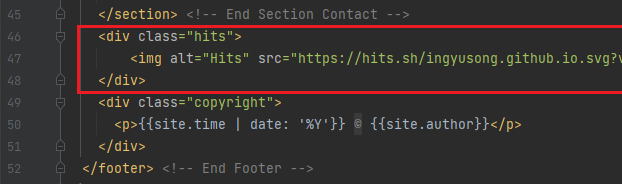
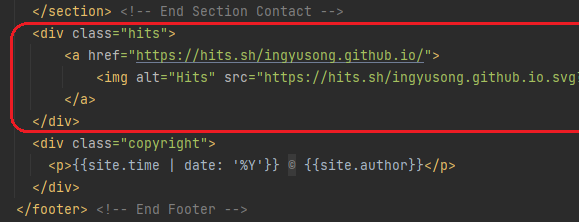
Fixed: 2023-06-08-Git-Blog-방문자수-조회수-기능-추가하기.markdown, _post-page.scss
게시물 조회수 설정하기 글 추가
게시글 헤더 left 정렬

diff --git a/_layouts/post.html b/_layouts/post.html
@@ -17,10 +17,10 @@ layout: main
     <div class="wrap-content">
       <header class="header-page">
         <h1 class="page-title">{{page.title}}</h1>
-        <div class="page-date"><span>{{page.date | date: '%Y, %b %d'}}&nbsp;&nbsp;&nbsp;&nbsp;</span></div>
-        <div class="hits">
-          <img alt="Hits" src="https://hits.sh/ingyusong.github.io/{{ page.title }}.svg?style=plastic&label=%EC%A1%B0%ED%9A%8C%EC%88%98&color=4a8fd4&labelColor=787879"/>
-        </div>
+        <div class="page-date"><span>{{page.date | date: '%Y, %m %d'}}&nbsp;&nbsp;&nbsp;&nbsp;</span></div>
+          <a href="https://hits.sh/ingyusong.github.io/{{ page.title }}">
+            <img alt="Hits" src="https://hits.sh/ingyusong.github.io/{{ page.title }}.svg?style=plastic&label=%EC%A1%B0%ED%9A%8C%EC%88%98&color=4a8fd4&labelColor=787879"/>
+          </a>
       </header>
       {{content | markdownify}}
       <div class="page-footer">

diff --git a/_layouts/main.html b/_layouts/main.html
@@ -44,10 +44,12 @@ layout: default
       </ul>
     </section> <!-- End Section Contact -->
     <div class="hits">
-        <img alt="Hits" src="https://hits.sh/ingyusong.github.io.svg?view=today-total&style=plastic&label=%EB%B0%A9%EB%AC%B8%EC%9E%90%EC%88%98&color=f6f68a&labelColor=979595"/>
+        <a href="https://hits.sh/ingyusong.github.io/">
+            <img alt="Hits" src="https://hits.sh/ingyusong.github.io.svg?view=today-total&style=plastic&label=%EB%B0%A9%EB%AC%B8%EC%9E%90%EC%88%98&color=f6f68a&labelColor=979595"/>
+        </a>
     </div>
     <div class="copyright">
-      <p>{{site.time | date: '%Y'}} &copy; {{site.author}}</p>
+      <p>2023 &copy; {{site.author}}</p>
     </div>
   </footer> <!-- End Footer -->
 </aside> <!-- End Sidebar -->

diff --git a/assets/css/scss/parts/_post-page.scss b/assets/css/scss/parts/_post-page.scss
@@ -3,7 +3,7 @@
 }
 
 .header-page {
-  text-align: center;
+  text-align: left;
   margin: 10px 0;
   .page-title {
     font-weight: 400;
